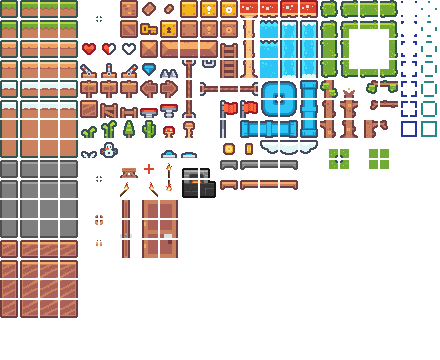
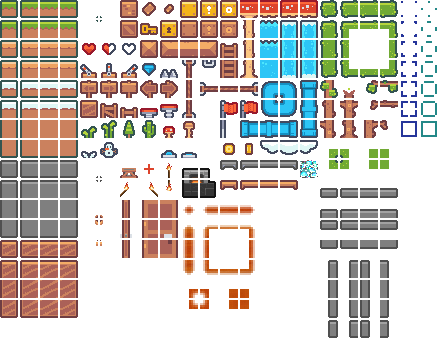
update

diff --git a/core/src/main/java/pama1234/gdx/game/state/state0001/game/region/block/block0001/LightOre.java b/core/src/main/java/pama1234/gdx/game/state/state0001/game/region/block/block0001/LightOre.java
@@ -1,0 +1,97 @@
+package pama1234.gdx.game.state.state0001.game.region.block.block0001;
+
+import com.badlogic.gdx.graphics.g2d.TextureRegion;
+
+import pama1234.gdx.game.asset.ImageAsset;
+import pama1234.gdx.game.state.state0001.game.metainfo.MetaBlock;
+import pama1234.gdx.game.state.state0001.game.metainfo.info0001.center.MetaBlockCenter0001;
+
+public class LightOre extends MetaBlock{
+  public LightOre(MetaBlockCenter0001 pc,int id) {
+    super(pc,"light-ore",id,20,2,(in,type)-> {//change to me
+      // in.lighting=16;
+      in.light.set(16);
+    },(in,type)-> {//change from me
+    });
+    blockType=stoneType;
+    // fullBlockType=FullBlockType.stoneType;
+    // fullBlockType=FullBlockType.oreType;
+    destroyTime=60;
+    buildTime=15;
+    setLightIntensity(4);
+    // initFullBlockLambda();
+    initLambda();
+  }
+  @Override
+  public void initItemDrop() {
+    itemDrop=new ItemDropAttr[] {new ItemDropAttr(pc.pw.metaItems.lightOre,1)};
+  }
+  @Override
+  public void init() {
+    // if(tiles[0]!=null) return;
+    TextureRegion[][] tsrc=ImageAsset.tiles;
+    int tx=9,ty=10;
+    //-----------------------------------------------------
+    tiles[15]=tsrc[tx][ty];
+    tiles[7]=tsrc[tx+1][ty];
+    tiles[3]=tsrc[tx+2][ty];
+    tiles[11]=tsrc[tx+3][ty];
+    //-----------------------------------------------------
+    tiles[13]=tsrc[tx][ty+1];
+    tiles[5]=tsrc[tx+1][ty+1];
+    tiles[1]=tsrc[tx+2][ty+1];
+    tiles[9]=tsrc[tx+3][ty+1];
+    //-----------------------------------------------------
+    tiles[12]=tsrc[tx][ty+2];
+    tiles[4]=tsrc[tx+1][ty+2];
+    tiles[0]=tsrc[tx+2][ty+2];
+    tiles[8]=tsrc[tx+3][ty+2];
+    //-----------------------------------------------------
+    tiles[14]=tsrc[tx][ty+3];
+    tiles[6]=tsrc[tx+1][ty+3];
+    tiles[2]=tsrc[tx+2][ty+3];
+    tiles[10]=tsrc[tx+3][ty+3];
+    //-----------------------------------------------------
+    tx=4;
+    ty=8;
+    tiles[16]=tsrc[tx][ty];
+    tiles[17]=tsrc[tx+1][ty];
+    tiles[18]=tsrc[tx][ty+1];
+    tiles[19]=tsrc[tx+1][ty+1];
+  }
+  public void initLambda() {
+    displayUpdater=(world,in,x,y)-> {
+      int typeCache=0;
+      if(isNotFullBlockOrNotSameType(in,world.getBlock(x,y-1))) typeCache+=1;// up
+      if(isNotFullBlockOrNotSameType(in,world.getBlock(x,y+1))) typeCache+=2;// down
+      if(isNotFullBlockOrNotSameType(in,world.getBlock(x-1,y))) typeCache+=4;// left
+      if(isNotFullBlockOrNotSameType(in,world.getBlock(x+1,y))) typeCache+=8;// right
+      in.displayType[0]=typeCache;
+      typeCache=0;
+      if(isNotFullBlockOrNotSameType(in,world.getBlock(x-1,y-1))) typeCache+=1;
+      if(isNotFullBlockOrNotSameType(in,world.getBlock(x-1,y+1))) typeCache+=2;
+      if(isNotFullBlockOrNotSameType(in,world.getBlock(x+1,y+1))) typeCache+=4;
+      if(isNotFullBlockOrNotSameType(in,world.getBlock(x+1,y-1))) typeCache+=8;
+      in.displayType[1]=typeCache;
+      //---
+      if(in.updateLighting) lightingUpdate(in,x,y,world);
+    };
+    displayer=(r,p,in,x,y)-> {
+      // if(in.light.isDark())
+      r.tint(
+        getLighting(in.light.r()),
+        getLighting(in.light.g()),
+        getLighting(in.light.b()));
+      int tp_0=in.displayType[0];
+      r.tile(in.type.tiles[tp_0],x,y);
+      int tp_1=in.displayType[1];
+      if(tp_1!=0) {
+        if((tp_0&2)+(tp_0&8)==0&&(tp_1&4)!=0) r.tile(in.type.tiles[16],x,y);
+        if((tp_0&2)+(tp_0&4)==0&&(tp_1&2)!=0) r.tile(in.type.tiles[17],x,y);
+        if((tp_0&1)+(tp_0&8)==0&&(tp_1&8)!=0) r.tile(in.type.tiles[18],x,y);
+        if((tp_0&1)+(tp_0&4)==0&&(tp_1&1)!=0) r.tile(in.type.tiles[19],x,y);
+      }
+    };
+    ;
+  }
+}

diff --git a/core/src/main/java/pama1234/gdx/game/state/state0001/game/metainfo/MetaBlock.java b/core/src/main/java/pama1234/gdx/game/state/state0001/game/metainfo/MetaBlock.java
@@ -11,7 +11,7 @@ import pama1234.math.UtilMath;
 
 public class MetaBlock extends MetaInfoBase{
   public static class FullBlockType{
-    public static final int stoneType=0,leafType=1,plankType=2,platformType=3;//fullBlockType
+    public static final int stoneType=0,leafType=1,plankType=2,platformType=3;//,oreType=4;
   }
   public static final int noType=0,everyType=1,dirtType=2,stoneType=3,woodType=4;//blockType
   public MetaBlockCenter0001 pc;
@@ -143,7 +143,6 @@ public class MetaBlock extends MetaInfoBase{
     in.light.update();
   };
   public static final BlockUpdater fullBlockDisplayUpdater=(world,in,x,y)-> {
-    // World0001 world=world;
     int typeCache=0;
     if(isNotFullBlockOrNotSameType(in,world.getBlock(x,y-1))) typeCache+=1;// up
     if(isNotFullBlockOrNotSameType(in,world.getBlock(x,y+1))) typeCache+=2;// down
@@ -155,23 +154,11 @@ public class MetaBlock extends MetaInfoBase{
     if(isNotFullBlockOrNotSameType(in,world.getBlock(x-1,y+1))) typeCache+=2;
     if(isNotFullBlockOrNotSameType(in,world.getBlock(x+1,y+1))) typeCache+=4;
     if(isNotFullBlockOrNotSameType(in,world.getBlock(x+1,y-1))) typeCache+=8;
-    // if(Block.isNotFullBlock(world.getBlock(x,y-1))) typeCache+=1;// up
-    // if(Block.isNotFullBlock(world.getBlock(x,y+1))) typeCache+=2;// down
-    // if(Block.isNotFullBlock(world.getBlock(x-1,y))) typeCache+=4;// left
-    // if(Block.isNotFullBlock(world.getBlock(x+1,y))) typeCache+=8;// right
-    // in.displayType[0]=typeCache;
-    // typeCache=0;
-    // if(Block.isNotFullBlock(world.getBlock(x-1,y-1))) typeCache+=1;
-    // if(Block.isNotFullBlock(world.getBlock(x-1,y+1))) typeCache+=2;
-    // if(Block.isNotFullBlock(world.getBlock(x+1,y+1))) typeCache+=4;
-    // if(Block.isNotFullBlock(world.getBlock(x+1,y-1))) typeCache+=8;
     in.displayType[1]=typeCache;
     //---
     if(in.updateLighting) lightingUpdate(in,x,y,world);
-    // in.light.update();
   },defaultDisplayUpdater=(world,in,x,y)-> {
     if(in.updateLighting) lightingUpdate(in,x,y,in.type.pc.pw);
-    // in.light.update();
   };
   public static boolean isNotFullBlockOrNotSameType(Block b,Block a) {
     return Block.isNotFullBlock(a)||(a.type.fullBlockType!=b.type.fullBlockType);

diff --git a/core/src/main/java/pama1234/gdx/game/state/state0001/game/world/World0001Generator.java b/core/src/main/java/pama1234/gdx/game/state/state0001/game/world/World0001Generator.java
@@ -13,6 +13,7 @@ import pama1234.gdx.game.state.state0001.game.metainfo.info0001.center.MetaItemC
 import pama1234.gdx.game.state.state0001.game.player.Player.PlayerType;
 import pama1234.gdx.game.state.state0001.game.region.block.block0001.Dirt;
 import pama1234.gdx.game.state.state0001.game.region.block.block0001.Door;
+import pama1234.gdx.game.state.state0001.game.region.block.block0001.LightOre;
 import pama1234.gdx.game.state.state0001.game.region.block.block0001.Sapling;
 import pama1234.gdx.game.state.state0001.game.region.block.block0001.Stone;
 import pama1234.gdx.game.state.state0001.game.region.block.block0001.Torch;
@@ -42,6 +43,7 @@ public class World0001Generator{
     metaBlocks.list.add(metaBlocks.furnace=new Furnace(metaBlocks,metaBlocks.id()));
     metaBlocks.list.add(metaBlocks.door=new Door(metaBlocks,metaBlocks.id()));
     metaBlocks.list.add(metaBlocks.chest=new Chest(metaBlocks,metaBlocks.id()));
+    metaBlocks.list.add(metaBlocks.lightOre=new LightOre(metaBlocks,metaBlocks.id()));
     return metaBlocks;
   }
   public static MetaItemCenter0001 createItemC(World0001 pw) {
@@ -135,6 +137,11 @@ public class World0001Generator{
       in.blockType=pw.metaBlocks.chest;
       in.tiles=new TextureRegion[1];
       in.tiles[0]=ImageAsset.items[3][3];
+    }));
+    metaItems.list.add(metaItems.lightOre=new MetaItem(metaItems,"light-ore",metaItems.id(),in-> {
+      // in.blockType=pw.metaBlocks.chest;
+      in.tiles=new TextureRegion[1];
+      in.tiles[0]=ImageAsset.items[7][0];
     }));
     return metaItems;
   }

diff --git a/core/src/main/java/pama1234/gdx/game/state/state0001/game/metainfo/info0001/center/MetaBlockCenter0001.java b/core/src/main/java/pama1234/gdx/game/state/state0001/game/metainfo/info0001/center/MetaBlockCenter0001.java
@@ -5,6 +5,7 @@ import pama1234.gdx.game.state.state0001.game.metainfo.MetaBlock;
 import pama1234.gdx.game.state.state0001.game.metainfo.MetaInfoUtil.MetaBlockCenter;
 import pama1234.gdx.game.state.state0001.game.region.block.block0001.Dirt;
 import pama1234.gdx.game.state.state0001.game.region.block.block0001.Door;
+import pama1234.gdx.game.state.state0001.game.region.block.block0001.LightOre;
 import pama1234.gdx.game.state.state0001.game.region.block.block0001.Sapling;
 import pama1234.gdx.game.state.state0001.game.region.block.block0001.Stone;
 import pama1234.gdx.game.state.state0001.game.region.block.block0001.Torch;
@@ -35,6 +36,7 @@ public class MetaBlockCenter0001 extends MetaBlockCenter{
   public Furnace furnace;
   public Door door;
   public Chest chest;
+  public LightOre lightOre;
   public MetaBlockCenter0001(World0001 pw) {
     this.pw=pw;
     idg=new IDGenerator();

diff --git a/core/src/main/java/pama1234/gdx/game/state/state0001/game/region/RegionGenerator.java b/core/src/main/java/pama1234/gdx/game/state/state0001/game/region/RegionGenerator.java
@@ -63,7 +63,8 @@ public class RegionGenerator{
           float posX=x(region.x,i,n),posY=y(region.y,j,m);
           float tx=posX/64f,ty=posY/64f;
           float random=noise.get(tx,ty);
-          if(random>0.6f) tb=new Block(world.metaBlocks.stone);
+          if(random>0.9f) tb=new Block(world.metaBlocks.lightOre);
+          else if(random>0.6f) tb=new Block(world.metaBlocks.stone);
           else if(random>0.3f) tb=new Block(world.metaBlocks.dirt);
           else if(noise.get(tx,(posY+1)/64f)>0.3f&&rng.get(tx,ty)<0.1f) tb=new Block(world.metaBlocks.sapling);
           else tb=new Block(world.metaBlocks.air);

diff --git a/core/src/main/java/pama1234/gdx/game/state/state0001/game/metainfo/info0001/center/MetaItemCenter0001.java b/core/src/main/java/pama1234/gdx/game/state/state0001/game/metainfo/info0001/center/MetaItemCenter0001.java
@@ -12,7 +12,7 @@ public class MetaItemCenter0001 extends MetaItemCenter{
   public MetaItem dirt,stone,
     log,branch,leaf,workbench,
     stonePickaxe,stoneAxe,stoneChisel,stoneSword,
-    sapling,torch,woodPlank,woodPlatform,furnace,door,chest;
+    sapling,torch,woodPlank,woodPlatform,furnace,door,chest,lightOre;
   public MetaItemCenter0001(World0001 pw) {
     this.pw=pw;
     idg=new IDGenerator();
